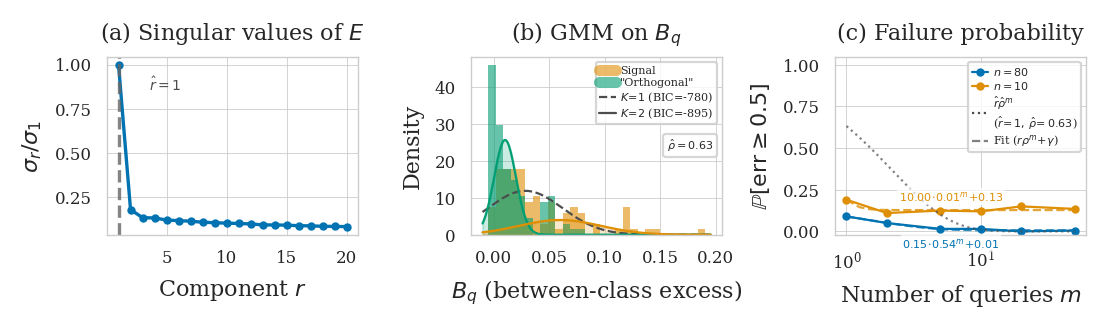
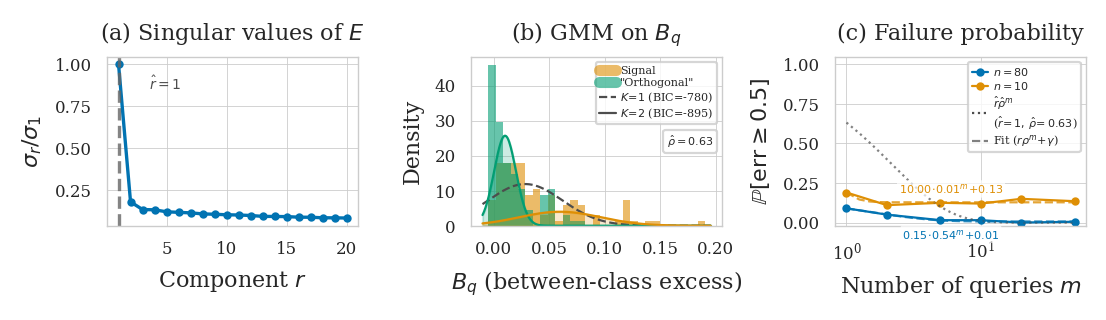
Reduce figure 3 height by additional 5%

diff --git a/bbo/plotting/system_prompt_plots.py b/bbo/plotting/system_prompt_plots.py
@@ -197,7 +197,7 @@ def plot_system_prompt_figures(config, output_dir: str = "figures"):
     # --- Figure 3: Estimation and theory validation (3 panels) ---
     fail_csv = Path("results/system_prompt/failure_probs.csv")
 
-    fig3 = plt.figure(figsize=(5.5, 1.485))
+    fig3 = plt.figure(figsize=(5.5, 1.41))
     gs3 = GridSpec(1, 3, figure=fig3,
                    left=0.08, right=0.97, bottom=0.22, top=0.82, wspace=0.45)
 

diff --git a/bbo/plotting/motivating_plots.py b/bbo/plotting/motivating_plots.py
@@ -207,7 +207,7 @@ def plot_figure3_estimation(
     """
     set_paper_style()
 
-    fig = plt.figure(figsize=(5.5, 1.485))
+    fig = plt.figure(figsize=(5.5, 1.41))
     gs = GridSpec(1, 3, figure=fig,
                   left=0.08, right=0.97, bottom=0.22, top=0.82, wspace=0.45)
     ax_a = fig.add_subplot(gs[0, 0])
